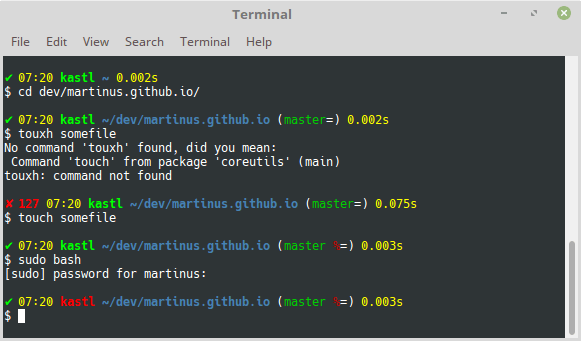
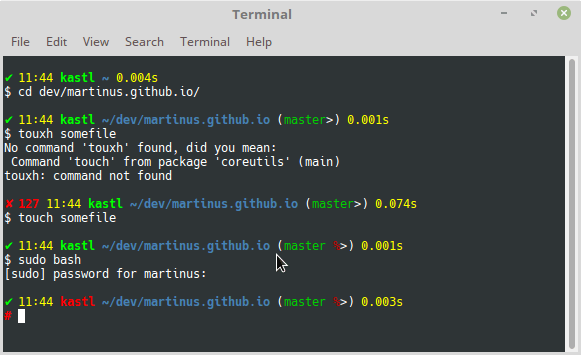
better root prompt

diff --git a/_posts/2016/2016-11-04-linux-bash-prompt.md b/_posts/2016/2016-11-04-linux-bash-prompt.md
@@ -54,6 +54,7 @@ function prompt_timer_stop {
   TIMER_SHOW=${TIMER_SHOW}$(printf "%d.${AFTER_COMMA}s" $S)
   unset PROMPT_TIMER
   
+  
   PS1="\e[0m\n" # begin with a newline
   if [ $EXIT != 0 ]; then
     PS1+="\e[1;31m✘ ${EXIT}" # red x with error status
@@ -62,8 +63,10 @@ function prompt_timer_stop {
   fi
   PS1+=" \e[0;93m`date +%H:%M`" # date, e.g. 17:00
   
+  local PSCHAR="$"
   if [ $(id -u) -eq 0 ]; then
     PS1+=" \e[1;31m\h " # root: red hostname
+    PSCHAR="\e[1;31m#\e[0m"
   else
     PS1+=" \e[1;32m\h " # non-root: green hostname
   fi
@@ -72,14 +75,14 @@ function prompt_timer_stop {
   GIT_PS1_SHOWDIRTYSTATE=true # * unstaged, + staged
   GIT_PS1_SHOWSTASHSTATE=true # $ stashed
   GIT_PS1_SHOWUNTRACKEDFILES=true # % untracked
-  GIT_PS1_SHOWCOLORHINTS=true 
+  GIT_PS1_SHOWCOLORHINTS=true
   # < behind, > ahead, <> diverged, = same as upstream
   GIT_PS1_SHOWUPSTREAM="auto" 
   # git with 2 arguments *sets* PS1 (and uses color coding)
   __git_ps1 "${PS1}\e[0m" "\e[0m"
   
   PS1+=" \e[0;93m${TIMER_SHOW}" # runtime of last command
-  PS1+="\e[0m\n\$ " # prompt in new line
+  PS1+="\e[0m\n${PSCHAR} " # prompt in new line
 }
  
 trap 'prompt_timer_start' DEBUG
